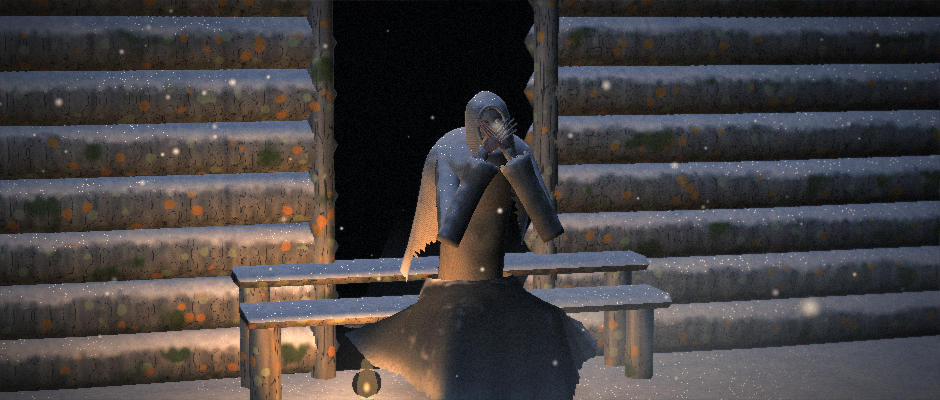
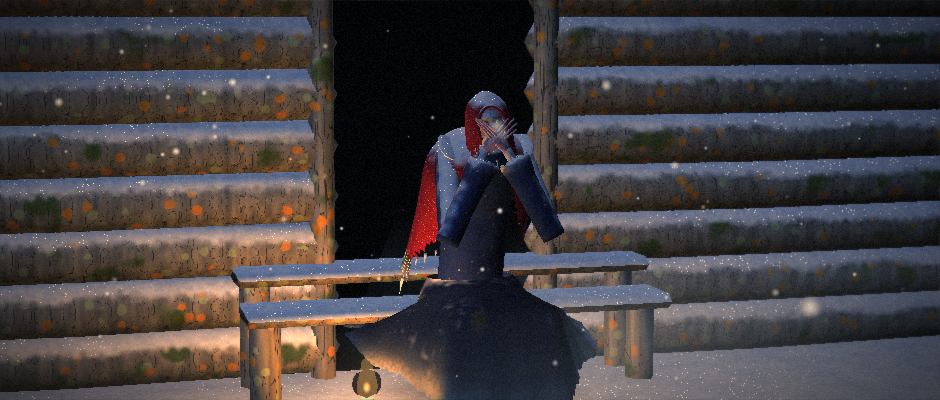
Бабка: снежная цветная модель — малиновый платок с каймой, синее платье, валенки с вышивкой, снег и сосульки на ней, ледяные глаза
Claude-Session: https://claude.ai/code/session_01U7q1e8uFZWwJZQ9ReMncAM

Changed region(s): [[0.4011, 0.24, 0.5862, 0.93]]

diff --git a/monsters/babka_shaders.py b/monsters/babka_shaders.py
@@ -66,6 +66,7 @@ CLOTH_FRAG = '''#version 140
 uniform int material;
 uniform float fray;          // 1 — рвать край ткани по uv.y
 uniform float cold_flush;    // покраснение от мороза (нос, пальцы)
+uniform vec3 tint;           // цвет ткани этой части
 in vec3 v_obj; in vec3 v_local; in vec3 v_wpos; in vec3 v_wnrm; in vec3 v_onrm; in vec2 v_uv;
 out vec4 frag;
 
@@ -75,8 +76,8 @@ vec3 skin_albedo(vec3 p, vec3 lp, float forehead){
     float crepe = vnoise(p*420.0) * 0.12;
     float spots = smoothstep(0.70, 0.80, vnoise(p*55.0)) * 0.22;
     float dirt = smoothstep(0.55, 0.8, fbm(p*14.0)) * 0.25;
-    vec3 alb = vec3(0.60,0.55,0.48);
-    alb = mix(alb, vec3(0.50,0.44,0.40), vnoise(p*12.0));      // неровный, сероватый тон
+    vec3 alb = vec3(0.74,0.73,0.76);                            // бледная, обмороженная
+    alb = mix(alb, vec3(0.60,0.62,0.72), vnoise(p*12.0)*0.8);  // синюшные пятна
     alb *= 1.0 - wrinkles - crepe - spots;
     alb = mix(alb, vec3(0.28,0.24,0.19), dirt);
     return alb;
@@ -97,7 +98,11 @@ void main(){
         float forehead = material == 1 ? smoothstep(0.12, 0.17, lp.y) : 0.0;
         vec3 alb = skin_albedo(p, lp, forehead);
         float ao = material == 1 ? v_uv.x : 1.0;
-        alb = mix(alb, alb*vec3(1.28,0.78,0.78) + vec3(0.04,0.0,0.0), cold_flush * snow * 0.75);
+        alb = mix(alb, alb*vec3(1.35,0.72,0.72) + vec3(0.06,0.0,0.0), cold_flush * 0.8);
+        if(material == 1){                                        // щёки горят от мороза
+            float ch = exp(-(pow(abs(lp.x) - 0.048, 2.0)/0.0004 + pow(lp.y - 0.07, 2.0)/0.0006));
+            alb = mix(alb, vec3(0.80,0.36,0.38), ch * 0.6);
+        }
         if(material == 1){
             // «гусиные лапки» у глаз и складки на переносице
             for(int k=0; k<2; k++){
@@ -129,17 +134,20 @@ void main(){
             if(v_uv.y < edge) discard;
         }
         float weave = 0.93 + 0.07*sin(lp.x*1400.0)*sin(lp.y*1400.0 + lp.z*900.0);
-        vec3 alb = mix(vec3(0.36,0.32,0.27), vec3(0.47,0.43,0.36), fbm(p*6.0));
-        alb = mix(alb, vec3(0.20,0.17,0.13), smoothstep(0.55, 0.78, fbm(p*3.0 + 5.0)) * 0.7);   // разводы
+        vec3 alb = tint * mix(0.72, 1.08, fbm(p*6.0));
+        alb = mix(alb, tint*0.45, smoothstep(0.55, 0.78, fbm(p*3.0 + 5.0)) * 0.6);              // разводы
+        // мелкий выцветший цветочный набивной узор
+        vec3 fv = voronoi(p*26.0);
+        alb = mix(alb, mix(vec3(0.85,0.80,0.62), vec3(0.75,0.35,0.35), step(0.7, fv.z)), smoothstep(0.2, 0.12, fv.x) * step(0.45, fv.z) * 0.45);
         float ground = clamp(1.0 - v_wpos.y / 0.6, 0.0, 1.0);
         alb = mix(alb, vec3(0.17,0.14,0.10), clamp(ground * fbm(p*9.0 + 2.0) * 1.2, 0.0, 0.8));  // грязь у подола
-        alb = mix(alb, vec3(0.55,0.52,0.46), smoothstep(0.72, 0.85, fbm(p*20.0)) * 0.35);       // выгоревшие места
+        alb = mix(alb, tint*1.4 + 0.05, smoothstep(0.72, 0.85, fbm(p*20.0)) * 0.3);              // выгоревшие места
         // заплатки со стежками
         vec3 pv = voronoi(p*vec3(5.0, 4.0, 5.0) + 11.0);
         float patchM = step(0.86, pv.z) * smoothstep(0.30, 0.26, pv.x);
         float seam = step(0.86, pv.z) * (smoothstep(0.24, 0.27, pv.x) - smoothstep(0.29, 0.32, pv.x));
         float stitch = seam * step(0.5, fract((p.x + p.y + p.z)*90.0));
-        alb = mix(alb, mix(vec3(0.30,0.27,0.22), vec3(0.42,0.36,0.28), fbm(p*30.0)), patchM);
+        alb = mix(alb, mix(vec3(0.42,0.30,0.18), vec3(0.55,0.42,0.25), fbm(p*30.0)), patchM);
         alb = mix(alb, vec3(0.62,0.58,0.50), stitch*0.8);
         alb *= 1.0 - seam*0.25;
         alb *= weave;
@@ -156,7 +164,7 @@ void main(){
         float r = length(q.xy);
         vec3 alb = mix(vec3(0.62,0.58,0.52), vec3(0.50,0.40,0.36), smoothstep(0.3, 1.0, r));   // желтоватые белки
         float iris = 1.0 - smoothstep(0.42, 0.48, r);
-        vec3 irisCol = mix(vec3(0.22,0.20,0.18), vec3(0.42,0.42,0.40), vnoise(q*40.0));
+        vec3 irisCol = mix(vec3(0.35,0.55,0.75), vec3(0.70,0.86,0.98), vnoise(q*40.0));       // ледяная радужка
         float ring = smoothstep(0.30, 0.44, r) * iris;                  // старческая дуга
         irisCol = mix(irisCol, vec3(0.62,0.62,0.60), ring*0.7);
         alb = mix(alb, irisCol, iris * step(0.0, q.z));
@@ -164,10 +172,11 @@ void main(){
         col = shade(alb, N, V, 0.9, 0.85);
         vec3 H = normalize(normalize(light_dir) + V);
         col += vec3(1.0) * pow(clamp(dot(N, H), 0.0, 1.0), 300.0) * 1.5;   // влажный блик
+        col += irisCol * iris * step(0.0, q.z) * 0.35;                     // слабо светятся холодом
     }
     else if(material == 4){                        // седые пряди
-        vec3 alb = vec3(0.62,0.60,0.56) * (0.8 + 0.3*vnoise(p*300.0));
-        alb = mix(alb, vec3(0.92,0.95,1.0), snow * smoothstep(0.4, 0.8, vnoise(p*160.0)) * 0.8);   // иней
+        vec3 alb = vec3(0.80,0.80,0.82) * (0.8 + 0.3*vnoise(p*300.0));
+        alb = mix(alb, vec3(0.95,0.97,1.0), smoothstep(0.4, 0.8, vnoise(p*160.0)) * 0.8);   // иней
         col = shade(alb, N, V, 0.3, 0.9);
     }
     else if(material == 7){                        // пуховый платок: шерстяная вязка, пух
@@ -177,19 +186,51 @@ void main(){
         }
         float rows = fract(lp.y*90.0 + abs(fract(atan(lp.x, lp.z)*16.0) - 0.5)*0.9);
         float knit = 0.82 + 0.18*smoothstep(0.1, 0.5, abs(rows - 0.5)*2.0);
-        vec3 alb = mix(vec3(0.42,0.40,0.37), vec3(0.58,0.56,0.52), fbm(p*8.0)) * knit;
-        alb = mix(alb, vec3(0.26,0.24,0.22), smoothstep(0.6, 0.8, fbm(p*4.0 + 3.0))*0.5);           // свалявшиеся места
-        float rime = smoothstep(0.25, 0.03, v_uv.y) * fray;
-        alb = mix(alb, vec3(0.86,0.9,0.96), rime * snow * 0.7);
+        vec3 alb = tint * mix(0.8, 1.12, fbm(p*8.0)) * knit;
+        alb = mix(alb, tint*0.55, smoothstep(0.6, 0.8, fbm(p*4.0 + 3.0))*0.5);                    // свалявшиеся места
+        if(fray > 0.5){
+            // кайма: тёмная полоса с цветами (розы, листья) и бахрома
+            float band = smoothstep(0.05, 0.06, v_uv.y) * smoothstep(0.2, 0.19, v_uv.y);
+            vec2 q = vec2(v_uv.x * 70.0, (v_uv.y - 0.125) * 70.0 / 0.25 * 0.18);
+            vec2 cell = fract(q) - 0.5;
+            float id = fract(sin(floor(q.x)*12.9898) * 43758.5453);
+            float rr = length(cell * vec2(1.0, 1.6));
+            float flower = smoothstep(0.32, 0.25, rr);
+            float petals = 0.5 + 0.5*sin(atan(cell.y, cell.x)*5.0 + id*6.0);
+            vec3 fcol = id > 0.66 ? vec3(0.93,0.78,0.30) : (id > 0.33 ? vec3(0.95,0.62,0.66) : vec3(0.95,0.92,0.82));
+            vec3 bandCol = mix(vec3(0.07,0.05,0.06), mix(fcol*0.65, fcol, petals), flower);
+            bandCol = mix(bandCol, vec3(0.18,0.42,0.22), (smoothstep(0.45, 0.35, rr) - flower) * step(0.3, id));
+            alb = mix(alb, bandCol, band);
+            if(v_uv.y < 0.06 && fract(v_uv.x * 420.0) > 0.55) discard;                            // бахрома
+        }
+        float rime = smoothstep(0.25, 0.03, v_uv.y) * fray * (0.5 + 0.5*vnoise(p*120.0));
+        alb = mix(alb, vec3(0.88,0.92,0.98), rime * 0.6);                                           // иней по краю
+        alb = mix(alb, vec3(0.92,0.95,1.0), smoothstep(0.75, 0.95, vnoise(p*260.0)) * 0.35);        // снежинки в пуху
         if(inside) alb *= 0.45;
         col = shade(alb, N, V, 0.0, 1.0);
         col += alb * (light_color + lamp_light(v_wpos, N)) * pow(1.0 - ndv, 2.0) * 0.55;          // пух светится по краю
     }
     else if(material == 8){                        // валенки
-        vec3 alb = mix(vec3(0.24,0.23,0.22), vec3(0.36,0.35,0.33), fbm(p*50.0)) * (0.85 + 0.25*vnoise(p*260.0));
-        alb = mix(alb, vec3(0.86,0.9,0.96), smoothstep(0.16, 0.02, v_wpos.y) * snow * (0.5 + 0.5*vnoise(p*40.0)));
+        vec3 alb = mix(vec3(0.30,0.29,0.28), vec3(0.44,0.43,0.41), fbm(p*50.0)) * (0.85 + 0.25*vnoise(p*260.0));
+        float bandV = smoothstep(-0.235, -0.225, lp.y) * smoothstep(-0.165, -0.175, lp.y);         // вышитая полоса на голенище
+        float zig = step(0.5, fract(atan(lp.x, lp.z)*6.0/3.14159 + abs(fract((lp.y + 0.2)*40.0) - 0.5)));
+        alb = mix(alb, mix(vec3(0.62,0.07,0.08), vec3(0.95,0.88,0.75), zig*0.7), bandV);
+        alb = mix(alb, vec3(0.88,0.92,0.98), smoothstep(0.16, 0.02, v_wpos.y) * (0.5 + 0.5*vnoise(p*40.0)));
         col = shade(alb, N, V, 0.0, 1.0);
         col += alb * light_color * pow(1.0 - ndv, 2.0) * 0.3;
+    }
+    else if(material == 9){                        // налипший снег
+        vec3 alb = mix(vec3(0.80,0.85,0.94), vec3(0.97,0.98,1.0), vnoise(p*60.0)*0.6 + vnoise(p*12.0)*0.4);
+        col = shade(alb, N, V, 0.0, 1.0);
+        col += vec3(0.25,0.35,0.55) * (1.0 - clamp(dot(N, normalize(light_dir))*0.5+0.5, 0.0, 1.0)) * 0.25;  // голубая глубина
+        col += (light_color + lamp_light(v_wpos, N)) * snow_sparkle(v_wpos, V) * 2.0;
+    }
+    else if(material == 10){                       // лёд, сосульки
+        float fres = pow(1.0 - ndv, 3.0);
+        vec3 alb = mix(vec3(0.55,0.70,0.85), vec3(0.88,0.95,1.0), vnoise(lp*vec3(30.0,5.0,30.0)));
+        col = alb * (light_color*0.45 + vec3(0.12,0.16,0.22) + lamp_light(v_wpos, N)) + (light_color + lamp_light(v_wpos, N)) * fres * 0.7;
+        vec3 H = normalize(normalize(light_dir) + V);
+        col += light_color * pow(clamp(dot(N, H), 0.0, 1.0), 120.0) * 1.5;
     }
     else if(material == 6){                        // ногти: жёлтые, толстые, с бороздками
         vec3 alb = mix(vec3(0.55,0.50,0.38), vec3(0.68,0.62,0.48), smoothstep(0.3, 0.7, sin(lp.x*900.0)*0.5+0.5));
@@ -228,8 +269,10 @@ cloth_shader = Shader(name='babka_cloth', language=Shader.GLSL, vertex=VERT, fra
 sepia_shader = Shader(name='sepia_photo', language=Shader.GLSL, fragment=SEPIA_FRAG,
                       default_input=dict(strength=1.0, time=0.0))
 
-MATERIALS = dict(skin=0, face=1, linen=2, eye=3, hair=4, leather=5, nail=6, wool=7, felt=8)
+MATERIALS = dict(skin=0, face=1, linen=2, eye=3, hair=4, leather=5, nail=6, wool=7, felt=8, snowpack=9, ice=10)
 FRAYED = ('skirt', 'shawl', 'hood', 'forearm_R', 'forearm_L')
-NO_SNOW = ('eye', 'face', 'nail')
+NO_SNOW = ('eye', 'face', 'nail', 'snowpack', 'ice')
+# цвета ткани по частям
+TINTS = dict(wool=(0.50, 0.07, 0.09), linen=(0.13, 0.17, 0.34), stocking=(0.30, 0.12, 0.10))
 COLD = {'nose': 1.0, 'hand_R': 0.6, 'hand_L': 0.6}
 WINDY = {'skirt': 1.0, 'shawl': 1.3, 'hood': 0.8, 'forearm_R': 0.6, 'forearm_L': 0.6}

diff --git a/tools/render_babka_model.py b/tools/render_babka_model.py
@@ -1,0 +1,102 @@
+"""
+Лист модели Бабки: она одна на снегу, при хорошем свете — чтобы читались цвета и снег на ней.
+
+    python tools/render_babka_model.py      # docs/babka/model.png
+"""
+import math
+import sys
+from pathlib import Path
+
+ROOT = Path(__file__).resolve().parent.parent
+sys.path.insert(0, str(ROOT))
+
+from panda3d.core import Filename, NodePath, PNMImage, Point3  # noqa: E402
+from PIL import Image, ImageDraw, ImageFont  # noqa: E402
+from ursina import Entity, Ursina, Vec3, application, camera, color, scene, window  # noqa: E402
+
+OUT = ROOT / 'docs' / 'babka'
+W, H = 520, 760
+app = Ursina(size=(W, H), borderless=True, development_mode=False)
+
+from monsters.babka import Babka  # noqa: E402
+from monsters.cinema import Atmosphere, FilmLook, KeroseneLamp  # noqa: E402
+from monsters.frost_mimic import set_environment  # noqa: E402
+from taiga_demo import build_taiga  # noqa: E402
+
+FOG = (0.20, 0.23, 0.30)
+build_taiga(clear=14.0, winter=True)
+set_environment(light_dir=(0.45, 0.6, 0.65), light_color=(0.85, 0.90, 1.05), fog_color=FOG, fog_density=0.035, snow=1.0)
+NodePath.set_shader_input(scene, 'rim_dir', Vec3(-0.5, 0.5, -0.8))
+NodePath.set_shader_input(scene, 'rim_color', Vec3(0.45, 0.55, 0.8))
+window.color = color.rgb(*FOG)
+lamp = KeroseneLamp(position=(0.55, 0.0, 0.55), power=2.5)
+atmo = Atmosphere(center=(0, 0, 0), radius=4, motes=0, fog_puffs=10, snowfall=250)
+film = FilmLook(grade='cinema', letterbox=False, aperture=0.35)
+camera.fov = 30
+STEP = 1 / 30
+
+b = Babka(target=Entity(position=(0, 1.6, 40)), sitting=False)
+b.detect_range = 0
+for o in (b, lamp, atmo, film):
+    o.fixed_dt = STEP
+film.focus_on(b.p['head'])
+
+
+def grab():
+    img = PNMImage()
+    application.base.win.getScreenshot(img)
+    tmp = OUT / '_tmp.png'
+    img.write(Filename(tmp.as_posix()))
+    im = Image.open(tmp).convert('RGB')
+    tmp.unlink()
+    return im
+
+
+def step(n=1):
+    for _ in range(n):
+        app.step()
+
+
+def cam(target, dist, yaw, height):
+    a = math.radians(yaw)
+    camera.position = Vec3(target.x + math.sin(a) * dist, height, target.z + math.cos(a) * dist)
+    NodePath.lookAt(camera, Point3(*target), Vec3(0, 1, 0))
+
+
+def font(size):
+    p = '/usr/share/fonts/truetype/dejavu/DejaVuSans.ttf'
+    return ImageFont.truetype(p, size) if Path(p).exists() else ImageFont.load_default()
+
+
+if __name__ == '__main__':
+    step(40)
+    imgs, labels = [], []
+    for yaw, lab in ((0, 'Спереди'), (35, '3/4'), (90, 'Сбоку'), (180, 'Сзади')):
+        cam(Vec3(0, 1.05, 0), 5.0, yaw, 1.35)
+        step(2)
+        imgs.append(grab())
+        labels.append(lab)
+    hp = Vec3(*b.p['head'].world_position) + Vec3(0, 0.1, 0.05)
+    film.aperture = 0.0
+    cam(hp, 0.85, 18, hp.y + 0.03)
+    step(2)
+    imgs.append(grab())
+    labels.append('Лицо: иней, ледяные глаза')
+    cam(hp - Vec3(0, 0.05, 0), 0.6, -30, hp.y - 0.02)
+    step(2)
+    imgs.append(grab())
+    labels.append('Руки: красные от мороза')
+
+    pad, top, cols = 16, 60, 6
+    out = Image.new('RGB', (cols * W + (cols + 1) * pad, H + top + 46), (10, 11, 14))
+    d = ImageDraw.Draw(out)
+    d.text((pad, 14), 'Бабка — снежная модель', fill=(235, 230, 220), font=font(30))
+    for i, (im, lab) in enumerate(zip(imgs, labels)):
+        x = pad + i * (W + pad)
+        out.paste(im, (x, top))
+        tw = d.textlength(lab, font=font(22))
+        d.text((x + W / 2 - tw / 2, top + H + 10), lab, fill=(210, 205, 195), font=font(22))
+    out = out.resize((out.width * 2 // 3, out.height * 2 // 3), Image.LANCZOS)
+    out.save(OUT / 'model.png')
+    print('saved', OUT / 'model.png')
+    application.quit()

diff --git a/monsters/babka_mesh.py b/monsters/babka_mesh.py
@@ -258,4 +258,34 @@ def build_babka(seed=4):
                    mesh=loft([(-0.07, 0.052, 0.058, 0, -0.012), (0.0, 0.058, 0.058, 0, -0.022), (0.12, 0.056, 0.046, 0, -0.04),
                               (0.2, 0.042, 0.036, 0, -0.045)], axis='z', rings=14, seg=18, round_start=0.035, round_end=0.035,
                              noise=0.06, noise_scale=16, seed=seed)))
+    # ---- снег и лёд прямо на ней
+    def snowcap(rx, ry, rz, seed_, flat=0.35):
+        m = ellipsoid(rx, ry, rz, rings=14, seg=22, noise=0.35, seed=seed_)
+        v = m.vertices
+        v[:, 1] = np.maximum(v[:, 1], -ry * flat)            # плоское дно, ложится на ткань
+        m.vertices = v
+        m.normals = vertex_normals(m.vertices, m.triangles)
+        if np.einsum('ij,ij->i', m.normals, m.vertices - m.vertices.mean(0)).mean() < 0:
+            m.normals = -m.normals
+        return m
+
+    P(PartSpec('snow_head', 'head', (0, 0.222, -0.03), rot=(-10, 0, 0), mesh=snowcap(0.058, 0.016, 0.07, 31), kind='snowpack'))
+    for side, sx in (('R', 1), ('L', -1)):
+        P(PartSpec(f'snow_shoulder_{side}', 'spine2', (sx * 0.17, 0.315, -0.04), rot=(0, 0, sx * -22),
+                   mesh=snowcap(0.075, 0.02, 0.095, 40 + sx), kind='snowpack'))
+    P(PartSpec('snow_back', 'spine2', (0, 0.22, -0.235), rot=(-62, 0, 0), mesh=snowcap(0.14, 0.022, 0.1, 52), kind='snowpack'))
+    P(PartSpec('snow_back2', 'spine2', (0, 0.02, -0.29), rot=(-78, 0, 0), mesh=snowcap(0.16, 0.02, 0.08, 53), kind='snowpack'))
+
+    def icicle(L, r, seed_):
+        return loft([(-L, 0.0015, 0.0015, 0, 0), (-L * 0.55, r * 0.45, r * 0.45, 0, 0), (-0.01, r, r, 0, 0), (0.0, r * 1.2, r * 1.2, 0, 0)],
+                     rings=8, seg=8, noise=0.3, noise_scale=60, seed=seed_)
+    # по краю платка (сзади и с боков)
+    for i, a in enumerate(np.linspace(math.radians(195), math.radians(345), 13)):
+        L = rng.uniform(0.04, 0.14)
+        P(PartSpec(f'icicle_shawl_{i}', 'spine2', (0.29 * math.cos(a), -0.58, 0.26 * math.sin(a) - 0.01),
+                   mesh=icicle(L, rng.uniform(0.005, 0.009), 60 + i), kind='ice'))
+    # под подбородком, с края капюшона
+    for i, x in enumerate((-0.05, -0.02, 0.025, 0.055)):
+        P(PartSpec(f'icicle_hood_{i}', 'head', (x, -0.06 - abs(x) * 0.6, 0.06 - abs(x) * 0.5),
+                   mesh=icicle(rng.uniform(0.025, 0.06), 0.004, 70 + i), kind='ice'))
     return _finalize(parts)

diff --git a/monsters/babka.py b/monsters/babka.py
@@ -21,7 +21,7 @@ from ursina import Entity, Mesh, Vec3, Vec4, camera, scene, time as utime
 from ursina.shaders import unlit_shader
 
 from .babka_mesh import NECK_MAX, PELVIS_Y, SEAT_H, build_babka, skirt_vertices
-from .babka_shaders import COLD, FRAYED, MATERIALS, NO_SNOW, WINDY, cloth_shader
+from .babka_shaders import COLD, FRAYED, MATERIALS, NO_SNOW, TINTS, WINDY, cloth_shader
 from .frost_mimic import init_scene_uniforms
 
 L_UP, L_FORE = 0.43, 0.43
@@ -98,6 +98,8 @@ class Babka(Entity):
                 e.set_shader_input('fray', 1.0 if s.name in FRAYED else 0.0)
                 e.set_shader_input('part_offset', Vec3(*s.body_pos))
                 e.set_shader_input('wind', WINDY.get(s.name, 0.0))
+                tint = TINTS['stocking'] if s.name.startswith('shin') else TINTS.get(s.kind, (1, 1, 1))
+                e.set_shader_input('tint', Vec3(*tint))
                 e.set_shader_input('snow_mask', 0.0 if s.kind in NO_SNOW else (0.4 if s.kind == 'skin' else 1.0))
                 e.set_shader_input('cold_flush', COLD.get(s.name, 0.9 if 'dist_' in s.name else 0.5 if 'prox_' in s.name else 0.0))
             e.name = s.name

diff --git a/monsters/cinema.py b/monsters/cinema.py
@@ -58,7 +58,7 @@ void main(){
     }
     // цветокоррекция
     float g = dot(c, vec3(0.299,0.587,0.114));
-    vec3 cine = mix(vec3(g), c, 0.72);                                  // приглушённые цвета
+    vec3 cine = mix(vec3(g), c, 0.9);                                   // слегка приглушённые цвета
     cine = mix(cine * vec3(0.86,0.97,1.08), cine * vec3(1.10,0.98,0.84), smoothstep(0.12, 0.6, g));  // тени холодные, света тёплые
     cine = cine*1.08 + vec3(0.012,0.016,0.022);
     float gs = pow(g, 0.8) * 1.15;

diff --git a/monsters/frost_shaders.py b/monsters/frost_shaders.py
@@ -474,4 +474,5 @@ GLOBAL_DEFAULTS = dict(
     snow=0.0,
     snow_mask=1.0,
     cold_flush=0.0,
+    tint=(1, 1, 1),
 )

diff --git a/docs/babka/README.md b/docs/babka/README.md
@@ -23,6 +23,12 @@
 пар изо рта гуще. Вокруг — снежный наст с сугробами, голые берёзы, сосульки на избе, снегопад с ветром.
 Снег включается одной строкой: `set_environment(snow=1)` или `build_taiga(winter=True)`.
 
+Снежная модель: малиновый пуховый платок с цветочной каймой и бахромой, синее платье в мелкий
+выцветший цветочек, серые валенки с красной вышивкой; кожа бледная, обмороженная, щёки, нос и пальцы
+красные от мороза, глаза ледяные; на капюшоне, плечах и спине лежит снег (геометрия), с края
+платка и под подбородком свисают сосульки, по краям ткани иней. Лист модели: `python tools/render_babka_model.py`.
+
+![model](model.png)
 ![trailer](trailer.gif)
 ![shots](shots.png)
 ![hero](hero.png)
